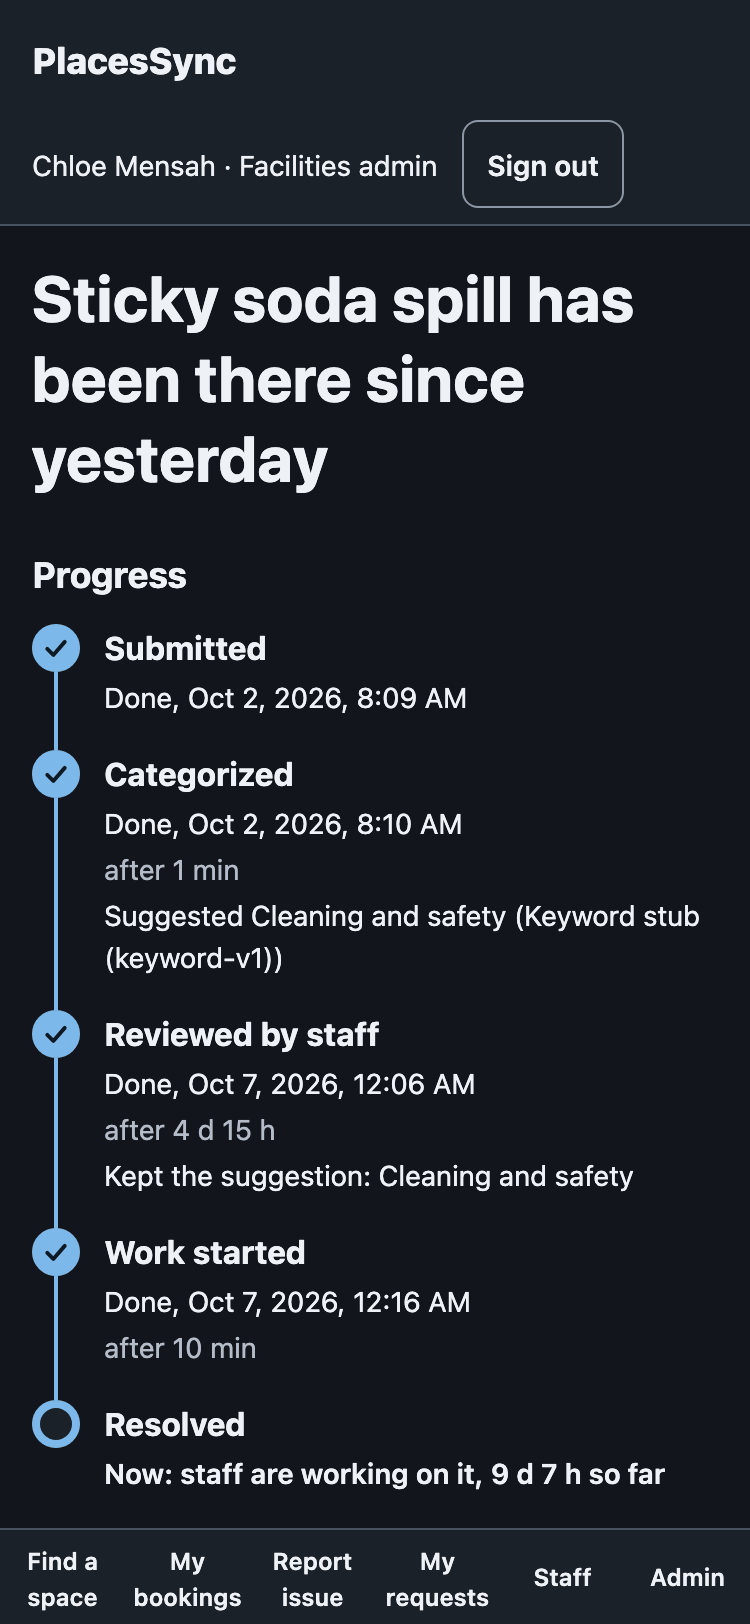
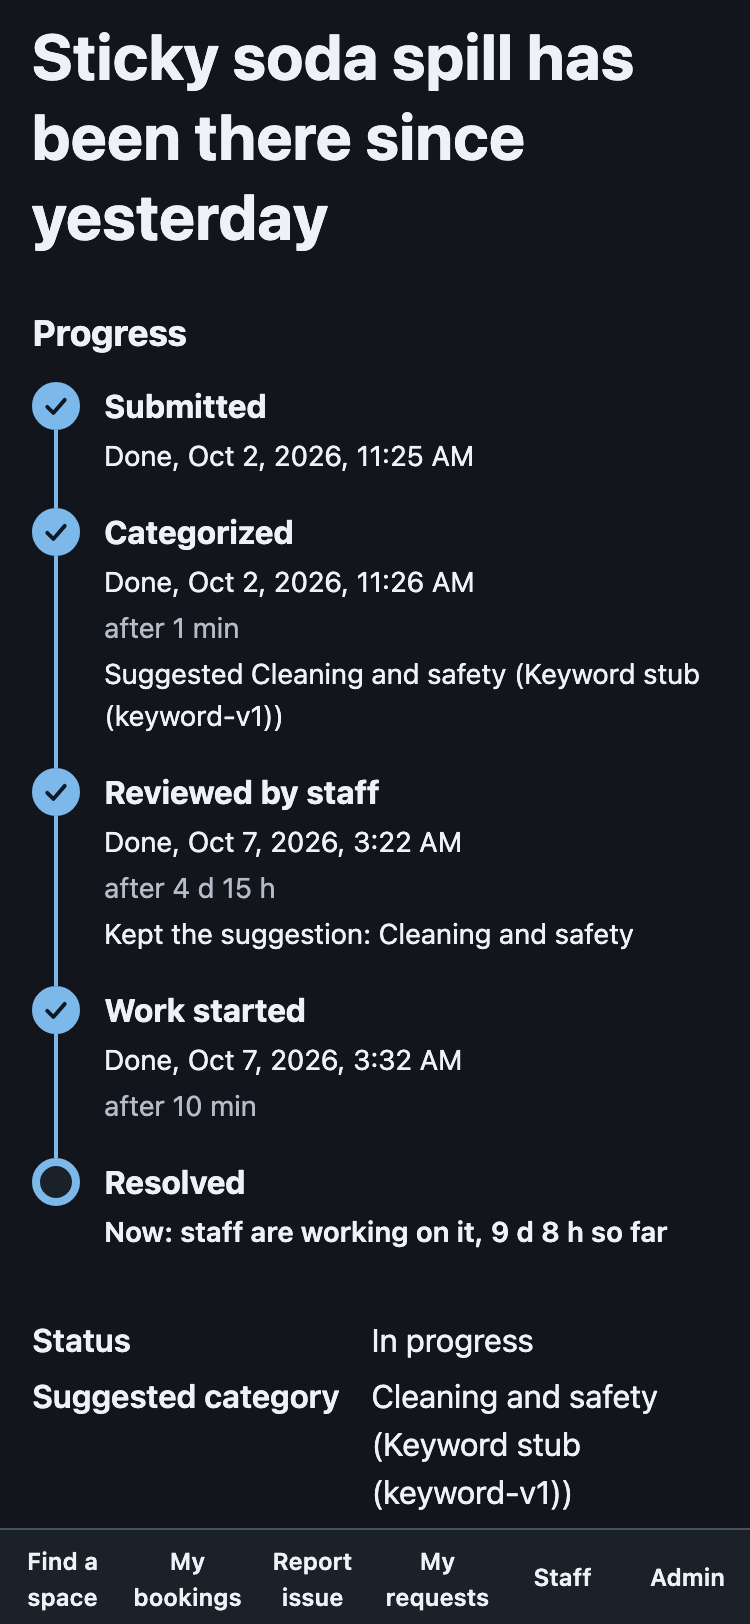
docs: screenshots of every changed screen at 1280 and 375 px in light and dark, and the later fixes in USER-WORKFLOWS.md
39 compressed PNGs (1.7 MB) of the local preview with synthetic data replace the 14 earlier ones, with a table of them in USER-WORKFLOWS.md that the README links. The visual pass section now also lists the legend, tooltip, Deactivate wording and slot grid key fixes.

diff --git a/docs/USER-WORKFLOWS.md b/docs/USER-WORKFLOWS.md
@@ -144,42 +144,59 @@ A review of the round above walked the same workflows in Chromium and found the 
 
 ## Third pass (visual), 2026-10-16
 
-Charts and status views that answer a question a persona has, on the screens they already use. Local and not deployed. Each item is a commit on `main` after `06cd47e`, with tests; the screenshots are of the local preview with the synthetic data (bookings for today added through the API), in light and dark (`prefers-color-scheme`). The staff and Find a space screenshots were taken with the browser clock set to 11:40 site time, so some of today's bookings have ended and the Now line shows.
+Charts and status views that answer a question a persona has, on the screens they already use. Local and not deployed. Each item is a commit on `main` after `06cd47e`, with tests. The screenshots are of the local preview (`npm run preview`) with synthetic data: the seed with 20 business days of history, bookings for the next 10 business days and for the rest of the day made through the API as synthetic employees, and one request submitted through the API. They were taken in Chromium in light and dark (`prefers-color-scheme`), at 1280 px and at 375 px (the phone ones at 2x). The staff page's browser clock was set to 14:40 site time and Find a space's to 12:10, so the Now line, ended bookings and past times show; the server kept its own clock.
 
 22. **Staff: what needs me first.** The staff page opened on a table. It now opens on "Work at a glance": four tiles, in workflow order, with the count and the oldest wait for suggestions to review, requests to categorize by hand, assigned work not started and work in progress. The queue tiles say how many have waited 24 hours or more (the Workflow's review timer), with an icon and words, and queue rows that old carry an "Over 24 h" mark. Ages come from the server's clock, never the browser's. A list cut at the server's 200-row limit shows "200+". Each tile links to its tab and moves focus there. The tiles come from the four lists the page already loads, so the page makes no new request; they hide while a load error shows.
 
-    ![Staff page: four tiles above the triage queue, the first reading 13 suggestions to review, oldest 11 d, 10 waiting over 24 h](screenshots/staff-glance-1280-light.png)
+    ![Staff page at 1280 px: four tiles above the triage queue, the first reading 13 suggestions to review, oldest 11 d, 10 waiting over 24 h, and queue rows marked Over 24 h](screenshots/staff-glance-1280-light.png)
 
 23. **Employee: where is my request.** The request page said only "Status: In progress" above a flat event list. "Progress" now shows the five steps with their times and how long each took, and the current step says who acts next and for how long so far; a review past the 24-hour timer says so. Suggestions keep their provider label, so the keyword stub never reads as AI. A cancelled request ends on one "Cancelled" step, and one resolved straight from Assigned shows "Work started" as "Skipped". The time moves once a minute without a request. My requests says the step in the status column ("Assigned, step 4 of 5") with a small meter, and keeps its columns.
 
-    ![Request page at 1280 px: Submitted, Categorized, Reviewed by staff and Work started done with times, Resolved current with "Now: staff are working on it"](screenshots/request-progress-1280-light.png)
+    ![Request page at 1280 px: Submitted, Categorized, Reviewed by staff and Work started done with times, Resolved current with "Now: staff are working on it, 9 d 7 h so far"](screenshots/request-progress-1280-light.png)
 
-    Phone, dark: [request progress](screenshots/request-progress-375-dark.png), [My requests with steps](screenshots/my-requests-375-light.png) (light).
+24. **Staff: which spaces are in use now.** "Today's bookings" was a list sorted by start time, so one room's bookings were spread down the page. It is now a day timeline: a row per space (rooms first, then desks, in a fixed order), a bar per booking, a Now line that moves every minute, grey bars for bookings that ended, named in a legend ("Booked", "Ended before now"), a sentence per space ("in use until 15:00 (Daniel Fernandez); free from 15:00 for the rest of the day") and a wrench on spaces with an open request. The chart is one Tab stop: the arrow keys move between spaces and bookings, and the focused booking's details show beside it and are announced. Its own live connection, open only while the tab shows, adds a booking made elsewhere at once (named "Booked" until a refetch, at most one every 30 seconds, brings the name) and removes a cancelled one. "Show as table" gives the list with names; on a phone each space is a card.
 
-24. **Staff: which spaces are in use now.** "Today's bookings" was a list sorted by start time, so one room's bookings were spread down the page. It is now a day timeline: a row per space (rooms first, then desks, in a fixed order), a bar per booking, a Now line that moves every minute, grey bars for bookings that ended, a sentence per space ("in use until 12:00 (Grace Torres); free from 12:00 for the rest of the day") and a wrench on spaces with an open request. The chart is one Tab stop: the arrow keys move between spaces and bookings, and the focused booking's details show beside it and are announced. Its own live connection, open only while the tab shows, adds a booking made elsewhere at once (named "Booked" until a refetch, at most one every 30 seconds, brings the name) and removes a cancelled one. "Show as table" gives the list with names; on a phone each space is a card.
-
-    ![Today's bookings at 1280 px: a row per space with bars, grey ended bookings, a Now 11:40 line and open-request links](screenshots/staff-timeline-1280-light.png)
-
-    [Dark, with a booking focused from the keyboard](screenshots/staff-timeline-1280-dark.png), [phone cards, dark](screenshots/staff-timeline-375-dark.png).
+    ![Today's bookings at 1280 px: the legend, a row per space with bars, grey ended bookings, a Now 14:40 line and open-request links](screenshots/staff-timeline-1280-light.png)
 
 25. **Employee: when can I still get a desk.** Find a space showed cells with no totals, and on a phone one space at a time. Every time header now says how many of the spaces shown can be booked starting then ("7 free", "Past"), with a small column for the share, counting a desk only where its minimum hour fits, so a counted time always books. The numbers follow the tab, the filters and live updates without any server work. On a phone, "By time" lists the half hours with their counts; choosing one lists the free spaces with how long each stays free, and choosing a space selects its shortest booking and leaves Book ready.
 
-    ![Find a space at 1280 px, Desks: each time header shows Past or a count such as 7 free above a small column](screenshots/find-counts-1280-light.png)
-
-    Phone: [By time](screenshots/find-by-time-375-light.png), [spaces free from 14:30, dark](screenshots/find-by-time-spaces-375-dark.png).
+    ![Find a space at 1280 px, Desks, scrolled to 10:30 onward: each time header shows Past or a count such as 5 free above a small column, and the key below explains the numbers](screenshots/find-counts-1280-light.png)
 
 26. **Admin: how full is the office, and are the reports current.** The Utilization tab opened on one sentence that mixed past and future days, above a 56-row table. It now opens on whether the reports include every booking change (from the ledger's outbox; "Refresh" when some have not arrived yet, a warning when copying fails), four tiles (desk and room time booked on past days, bookings ahead, the cancelled share), and "Bookings per day": desks and rooms on one weekday axis and one scale, the days from today on in grey under "Today, booked so far". Each chart is one Tab stop with Left and Right between days; "Show table" gives the numbers. The hourly table folds behind its own "Show table", and its caption now says what it counts: bookings overlapping each hour, not spaces in use.
 
-    ![Admin Utilization at 1280 px: freshness line, four tiles, two column charts with a Today rule, and the start of the desks table](screenshots/admin-utilization-1280-light.png)
-
-    [Phone, dark](screenshots/admin-utilization-375-dark.png).
+    ![Admin Utilization at 1280 px: freshness line, four tiles, two column charts with a Today rule, and the desks table with Held and Booked ahead bars](screenshots/admin-utilization-1280-light.png)
 
 27. **Admin: which spaces are underused, and whom a deactivation affects.** The per-space bars were scaled to the busiest space, so 38% could draw full width, and a space with no bookings was missing. Each kind now has its own table listing every space, booked or not ("Not booked"), with "Held" (past days) and "Booked ahead" as separate bars on a fixed 0 to 100% scale, sorted by Held; the caption's average equals the tile. "Deactivate <space>?" now says how many bookings the reports show for that space from today on and the first date with one ("(today)" when it is today), or that it could not check.
 
-    ![Deactivate Desk 2A-04 dialog naming the bookings reports show from today on](screenshots/admin-deactivate-1280-light.png)
+    ![Deactivate Desk 2A-04 dialog: Reports show 5 bookings for Desk 2A-04 from today on, the first on Friday, October 16 (today)](screenshots/admin-deactivate-1280-light.png)
 
-28. **Admin: what staff do with suggestions.** Under the agreement table, "Staff decisions on suggestions" shows, for each provider separately, which suggested categories staff kept and which they changed into what: a table whose cells print their counts and are shaded by share of the row (a 5-step blue ramp checked for contrast in both themes), "kept n of m" per row, and the most changed pair in words. "Time from submission to staff review" puts the median beside four columns, the last marked "Over 24 hours" with an icon. It is not an accuracy measure: locally the reviews are the seed's, made against the keyword stub.
+28. **Admin: what staff do with suggestions.** Under the agreement table, "Staff decisions on suggestions" shows, for each provider separately, which suggested categories staff kept and which they changed into what: a table whose cells print their counts and are shaded by share of the row (a 5-step blue ramp checked for contrast in both themes), the kept cells outlined, "kept n of m" per row, and the most changed pair in words. The legend names each shade and the outline. "Time from submission to staff review" puts the median beside four columns, the last marked "Over 24 hours" with an icon. It is not an accuracy measure: locally the reviews are the seed's, made against the keyword stub.
 
-    ![Admin Requests tab in dark: the Keyword stub matrix with kept counts on the diagonal and the time-to-review columns](screenshots/admin-requests-1280-dark.png)
+    ![Admin Requests tab in dark: the legend, the Keyword stub matrix with kept counts outlined on the diagonal, and the time-to-review columns](screenshots/admin-requests-1280-dark.png)
 
 Server changes in this pass, none of which weakens a rule: `GET /api/staff/bookings` (staff and admin only) also lists the day's spaces from the catalog read it already made, and `GET /api/admin/reports/requests` (admin only) adds the kept-or-changed counts (one more grouped query) and the review-time buckets (counted from rows it already read). Both fields are optional. Requests the pages make: the staff page makes none more on open; the Today tab opens one live connection while it shows and refetches today's bookings at most once every 30 seconds while a live booking has no name; the admin page fetches the existing projection status with each report load, and the Deactivate dialog makes one report request when it opens.
+
+### Checked again later the same day
+
+A second builder walked every screen above in Chromium at 1280 and 375 px in both themes (axe clean on all 46 scans), booked and cancelled through the API while the staff timeline and Find a space were open (the bar and the lower count appeared without a reload and went again on cancel), and fixed what it found:
+
+29. **The timeline's grey bars are named.** A legend above the chart says "Booked" and "Ended before now"; before, only the Now line's position and the screen-reader text said a grey bar had ended.
+30. **A long booking's tooltip stays in its box.** It kept to one line in a 22rem box, so a room booking with attendees and a title ran past the edge (20 of the 68 tooltips in the demo data). It now wraps.
+31. **The matrix legend explains the outline.** "Outlined: staff kept the suggestion" sits beside the shade key.
+32. **The Deactivate dialog names the first date.** It read "the next on today (Friday, October 16)"; it now reads "the first on Friday, October 16 (today)", since reports count by date and today's bookings may have ended already.
+33. **The slot grid's key stays in view.** When the grid opened scrolled to the first open column late in the day, its help and key (including "Number under each time: spaces you can book starting then.") scrolled left with the columns and lost their start. The key is now fixed to the grid's left edge.
+
+### Screenshots
+
+Every changed screen, at 1280 px and 375 px, in light and dark:
+
+| Screen | 1280 light | 1280 dark | 375 light | 375 dark |
+|---|---|---|---|---|
+| Staff, work at a glance | [light](screenshots/staff-glance-1280-light.png) | [dark](screenshots/staff-glance-1280-dark.png) | [light](screenshots/staff-glance-375-light.png) | [dark](screenshots/staff-glance-375-dark.png) |
+| Staff, today's bookings | [light](screenshots/staff-timeline-1280-light.png) | [dark](screenshots/staff-timeline-1280-dark.png), [a booking focused from the keyboard](screenshots/staff-timeline-focus-1280-dark.png) | [light](screenshots/staff-timeline-375-light.png) | [dark](screenshots/staff-timeline-375-dark.png) |
+| Request progress | [light](screenshots/request-progress-1280-light.png) | [dark](screenshots/request-progress-1280-dark.png) | [light](screenshots/request-progress-375-light.png) | [dark](screenshots/request-progress-375-dark.png) |
+| My requests with steps | [light](screenshots/my-requests-1280-light.png) | [dark](screenshots/my-requests-1280-dark.png) | [light](screenshots/my-requests-375-light.png) | [dark](screenshots/my-requests-375-dark.png) |
+| Find a space, free counts | [light](screenshots/find-counts-1280-light.png) | [dark](screenshots/find-counts-1280-dark.png) | By time: [light](screenshots/find-by-time-375-light.png); spaces from 14:30: [light](screenshots/find-by-time-spaces-375-light.png); a desk chosen: [light](screenshots/find-by-time-chosen-375-light.png) | By time: [dark](screenshots/find-by-time-375-dark.png); spaces from 14:30: [dark](screenshots/find-by-time-spaces-375-dark.png) |
+| Admin, Utilization | [light](screenshots/admin-utilization-1280-light.png), [a day focused from the keyboard](screenshots/admin-columns-focus-1280-light.png) | [dark](screenshots/admin-utilization-1280-dark.png) | [light](screenshots/admin-utilization-375-light.png); by space: [light](screenshots/admin-by-space-375-light.png) | [dark](screenshots/admin-utilization-375-dark.png); by space: [dark](screenshots/admin-by-space-375-dark.png) |
+| Admin, Requests | [light](screenshots/admin-requests-1280-light.png) | [dark](screenshots/admin-requests-1280-dark.png) | [light](screenshots/admin-requests-375-light.png) | [dark](screenshots/admin-requests-375-dark.png) |
+| Admin, Deactivate dialog | [light](screenshots/admin-deactivate-1280-light.png) | [dark](screenshots/admin-deactivate-1280-dark.png) | [light](screenshots/admin-deactivate-375-light.png) | [dark](screenshots/admin-deactivate-375-dark.png) |

diff --git a/README.md b/README.md
@@ -6,9 +6,9 @@ A workplace application for reserving desks and meeting rooms, reporting facilit
 
 **Live demo.** [`docs/DEMO.md`](docs/DEMO.md) is the walkthrough of the deployed app: two personas race for one desk, then one facilities request goes through Workers AI triage to staff review.
 
-**User workflows.** [`docs/USER-WORKFLOWS.md`](docs/USER-WORKFLOWS.md) walks each persona through the local build step by step, including the usability changes of 2026-10-15 and the charts and status views of 2026-10-16, which production does not have yet. Screenshots of the local build with synthetic data: the [staff page's work at a glance](docs/screenshots/staff-glance-1280-light.png), [today's bookings as a timeline](docs/screenshots/staff-timeline-1280-light.png), a [request's progress](docs/screenshots/request-progress-1280-light.png), [free counts on Find a space](docs/screenshots/find-counts-1280-light.png) and [by time on a phone](docs/screenshots/find-by-time-375-light.png), and the admin [Utilization](docs/screenshots/admin-utilization-1280-light.png) and [Requests](docs/screenshots/admin-requests-1280-dark.png) tabs.
+**User workflows.** [`docs/USER-WORKFLOWS.md`](docs/USER-WORKFLOWS.md) walks each persona through the local build step by step, including the usability changes of 2026-10-15 and the charts and status views of 2026-10-16, which production does not have yet. Screenshots of the local build with synthetic data: the [staff page's work at a glance](docs/screenshots/staff-glance-1280-light.png), [today's bookings as a timeline](docs/screenshots/staff-timeline-1280-light.png), a [request's progress](docs/screenshots/request-progress-1280-light.png), [free counts on Find a space](docs/screenshots/find-counts-1280-light.png) and [by time on a phone](docs/screenshots/find-by-time-375-light.png), and the admin [Utilization](docs/screenshots/admin-utilization-1280-light.png) and [Requests](docs/screenshots/admin-requests-1280-dark.png) tabs. The [screenshot table](docs/USER-WORKFLOWS.md#screenshots) has every changed screen at 1280 and 375 px in light and dark.
 
-![Today's bookings on the local build: a row per space, bars per booking, a Now line, ended bookings in grey and open-request links](docs/screenshots/staff-timeline-1280-light.png)
+![Today's bookings on the local build: a legend, a row per space, bars per booking, a Now line, ended bookings in grey and open-request links](docs/screenshots/staff-timeline-1280-light.png)
 
 ## Why
 
